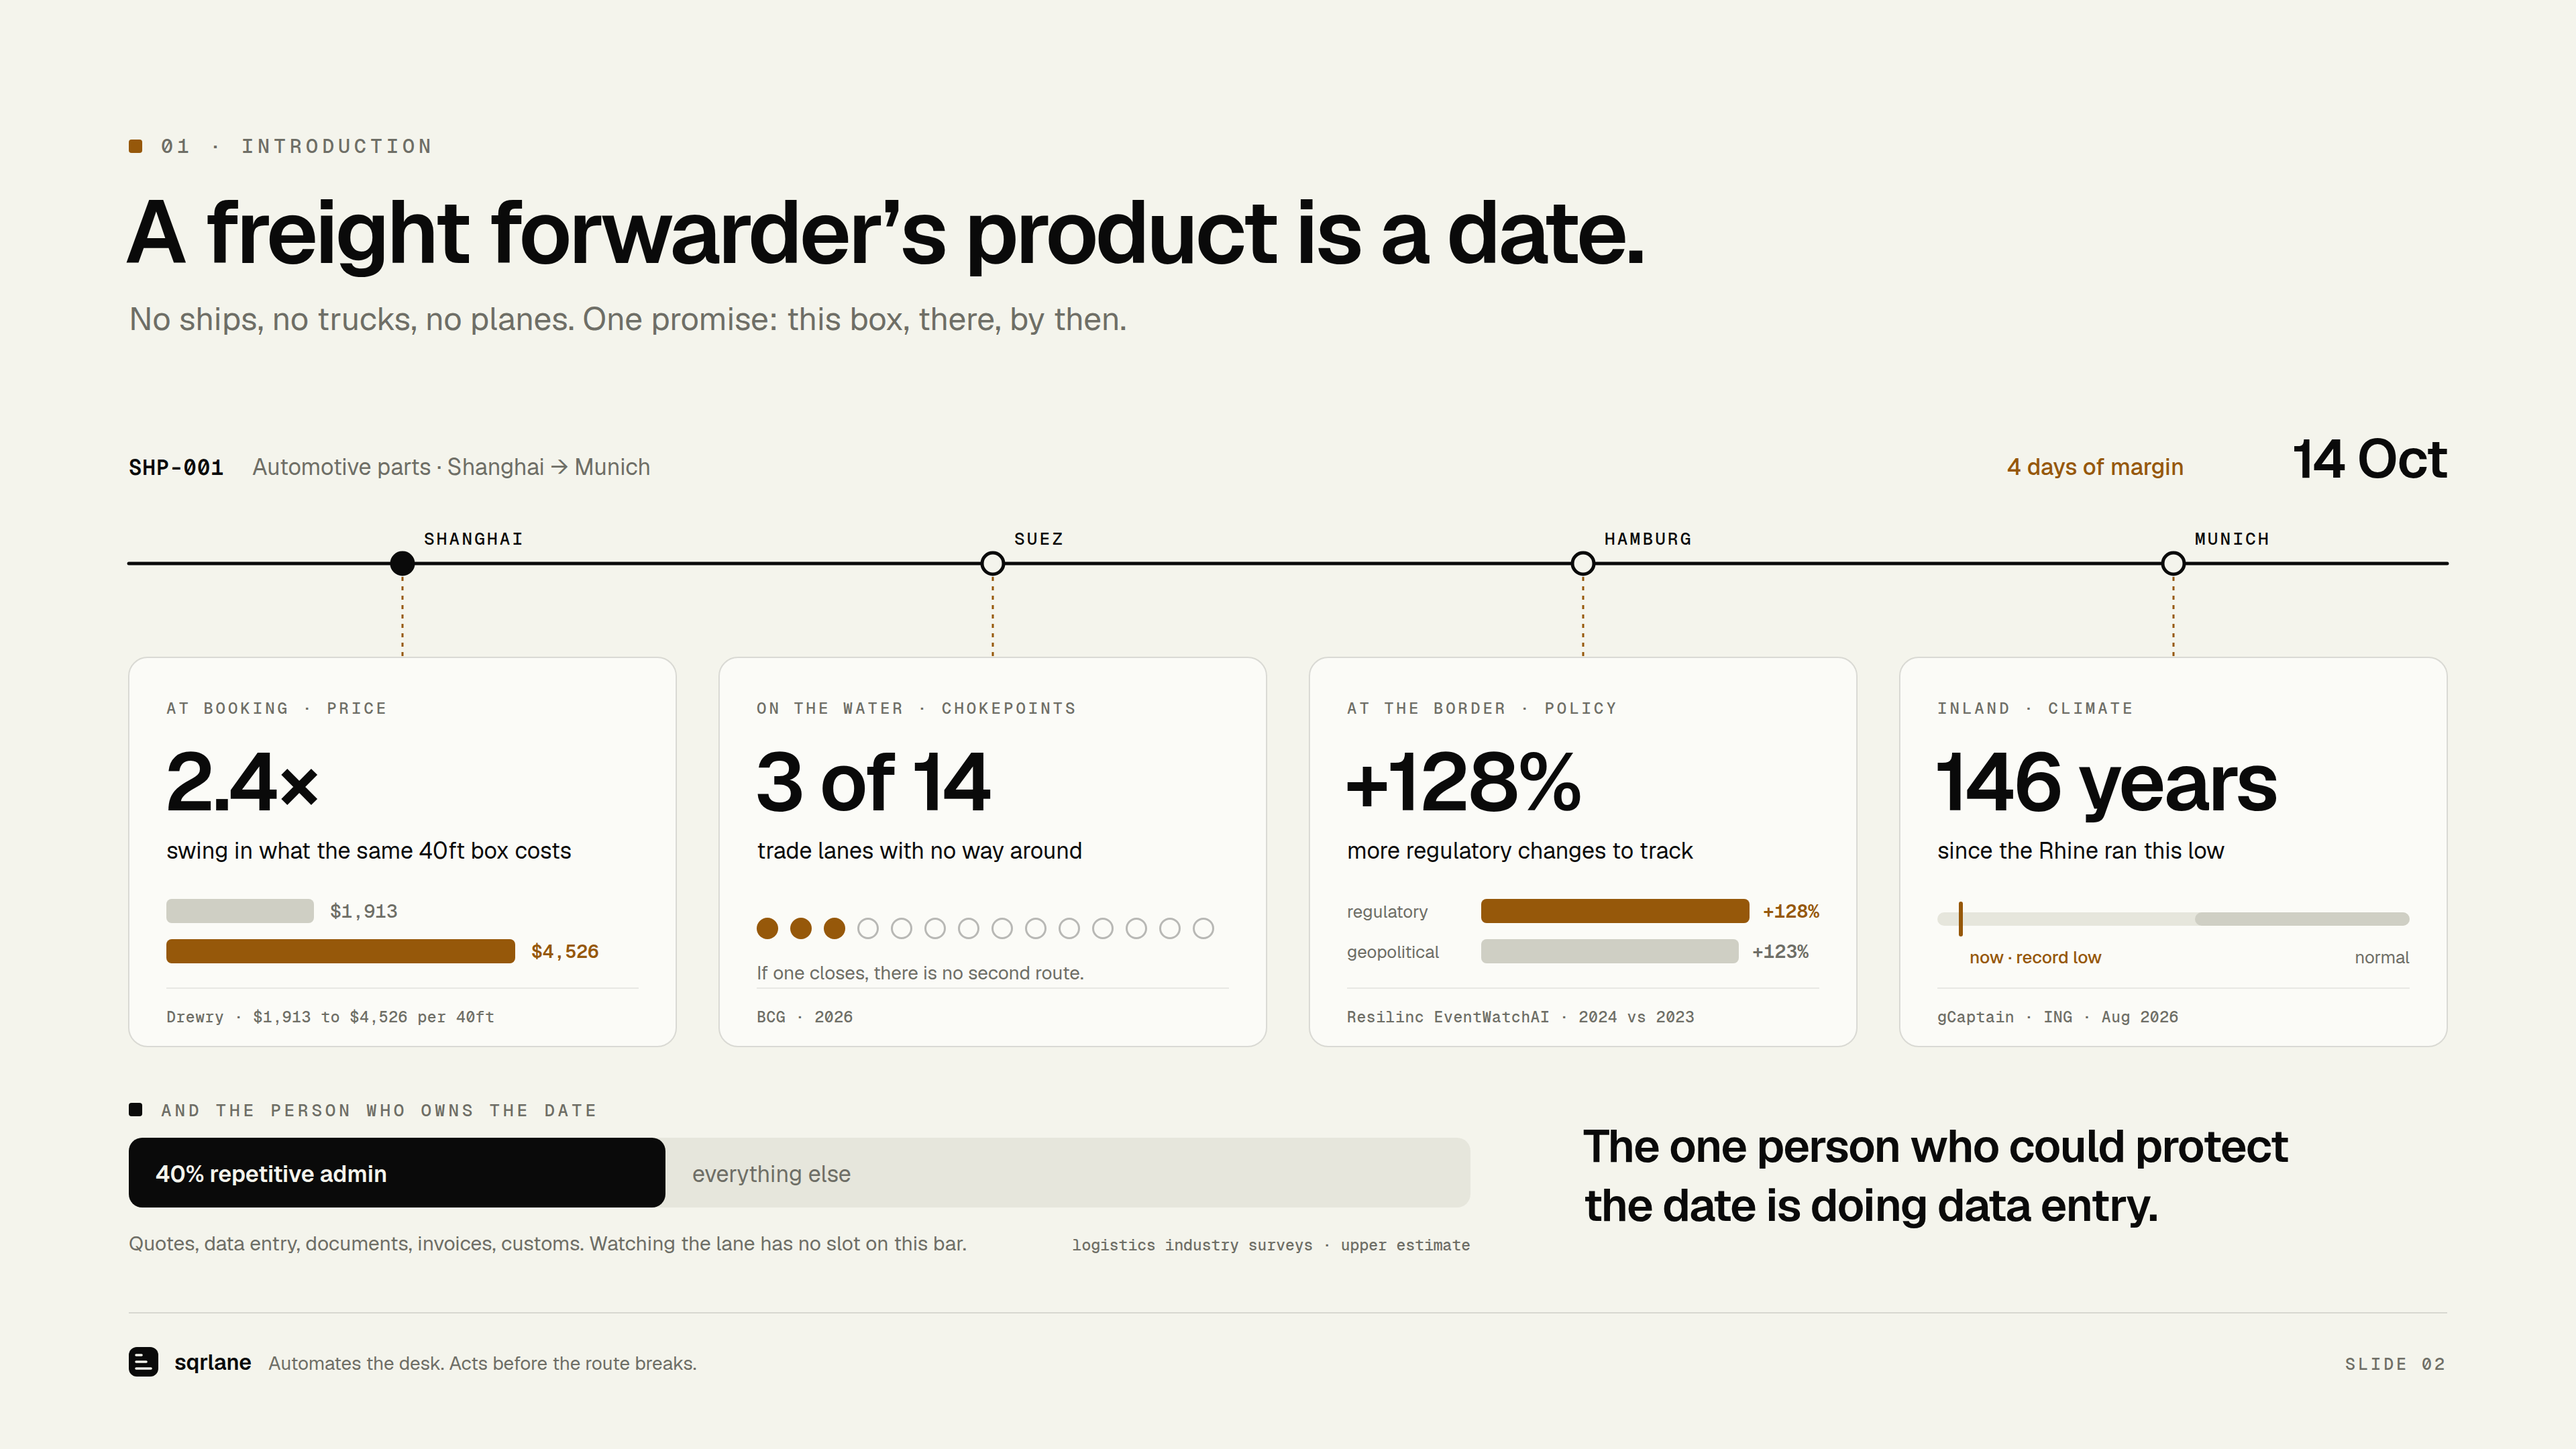
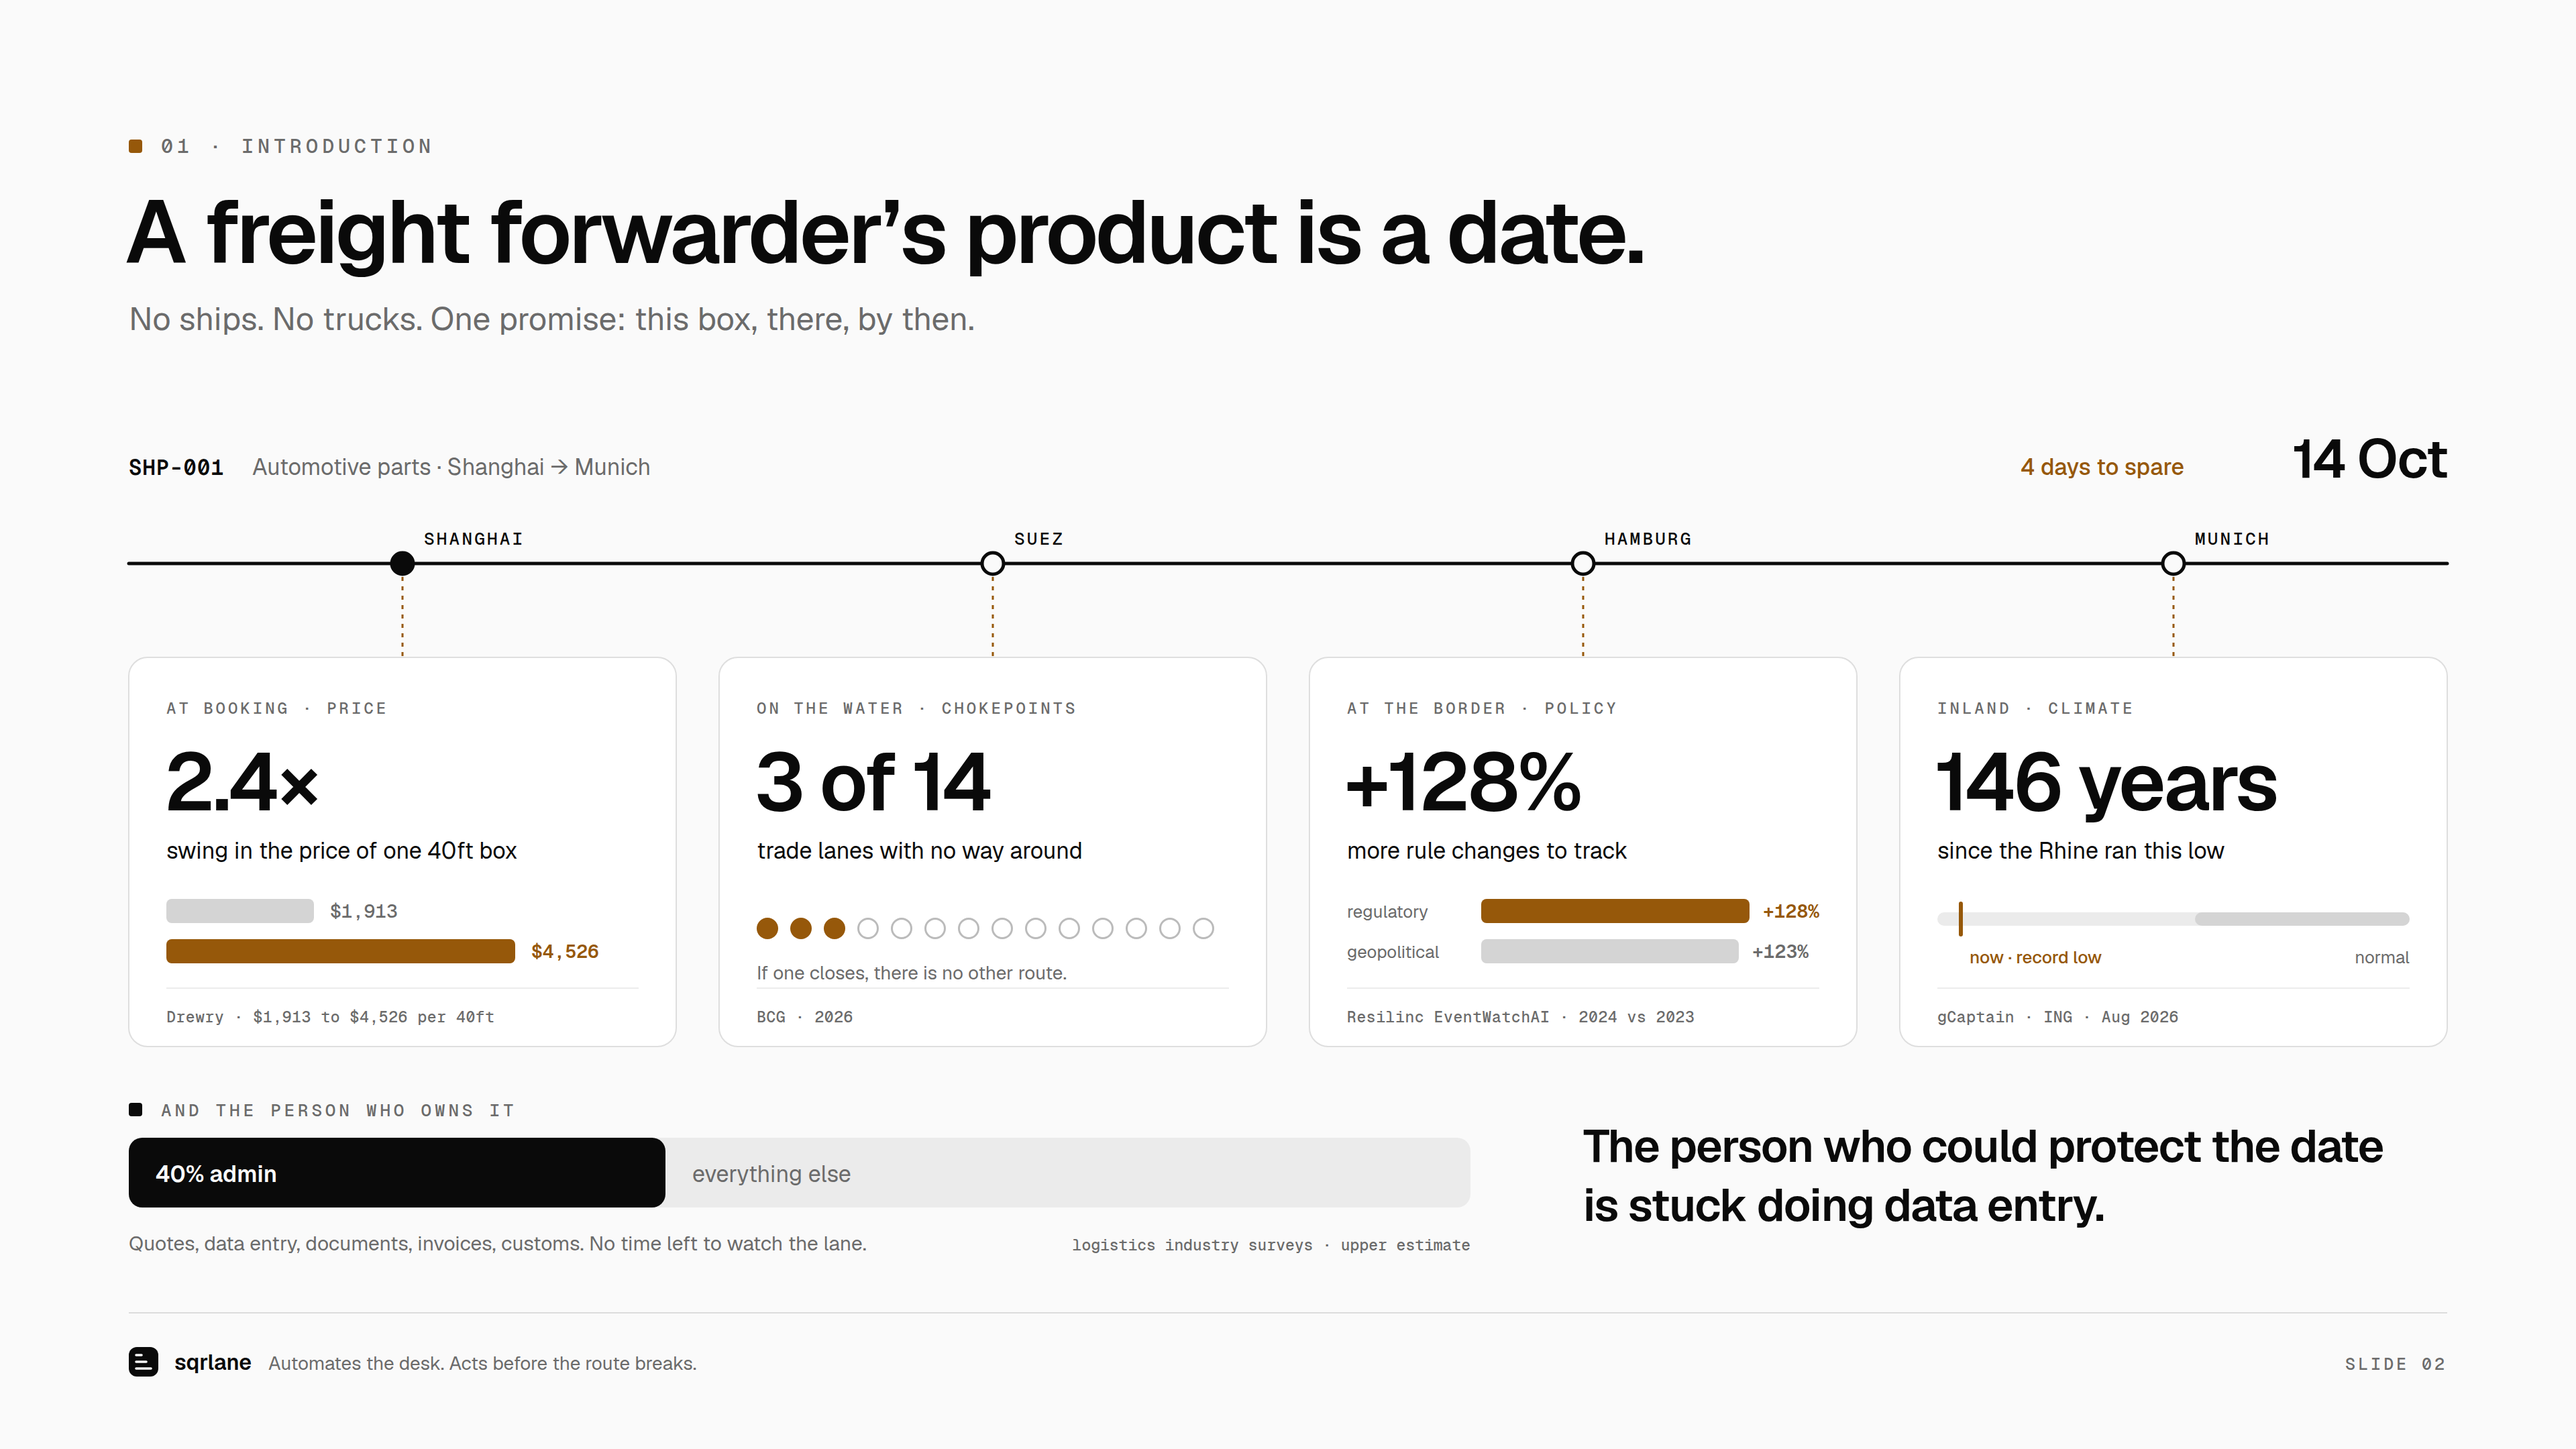
Deck v2 slide 02: neutral light background, simpler copy
Claude-Session: https://claude.ai/code/session_01HbtpjYfXPKy7DdRHDFrJUP

diff --git a/deck/v2/build_02.py b/deck/v2/build_02.py
@@ -2,7 +2,7 @@
 """Slide 02 - Introduction. Writes slide-02-introduction.svg (Figma-editable:
 inline attributes, no <style>, named groups, fonts by name only)."""
 import pathlib
-INK, MUT, AMB, BG, CARD = "#0A0A0A", "#6E6E66", "#96580A", "#F4F4EC", "#FBFBF7"
+INK, MUT, AMB, BG, CARD = "#0A0A0A", "#6B6B6B", "#96580A", "#FAFAFA", "#FFFFFF"
 SAGE = "#DBDBCD"
 M, W = 96, 1920
 out = []
@@ -25,7 +25,7 @@ G("header")
 R(M, 104, 10, 10, AMB, 2)
 T(M+24, 114, "01 · INTRODUCTION", 15, 500, MUT, ls=3, mono=True)
 T(M-3, 196, "A freight forwarder’s product is a date.", 66, 600, ls=-2)
-T(M, 246, "No ships, no trucks, no planes. One promise: this box, there, by then.", 24, 400, MUT)
+T(M, 246, "No ships. No trucks. One promise: this box, there, by then.", 24, 400, MUT)
 E()
 
 # the promise: one booking across the lane
@@ -34,7 +34,7 @@ LY = 420
 G("the-promise")
 T(M, 354, "SHP-001", 16, 600, mono=True, ls=0.6)
 T(M+92, 354, "Automotive parts · Shanghai → Munich", 17, 400, MUT)
-T(W-M-196, 354, "4 days of margin", 17, 500, AMB, anchor="end")
+T(W-M-196, 354, "4 days to spare", 17, 500, AMB, anchor="end")
 T(W-M, 356, "14 Oct", 40, 600, anchor="end", ls=-1)
 out.append(f'<path id="lane" d="M{M} {LY} H{W-M}" stroke="{INK}" stroke-width="2.5" stroke-linecap="round" fill="none"/>')
 for i, (x, name) in enumerate(zip(CX, ["SHANGHAI", "SUEZ", "HAMBURG", "MUNICH"])):
@@ -49,9 +49,9 @@ E()
 # four things that take the date, hung where they strike
 CW4, CY, CH = 408, 490, 290
 cards = [
-    ("AT BOOKING · PRICE", "2.4×", "swing in what the same 40ft box costs", "Drewry · $1,913 to $4,526 per 40ft"),
+    ("AT BOOKING · PRICE", "2.4×", "swing in the price of one 40ft box", "Drewry · $1,913 to $4,526 per 40ft"),
     ("ON THE WATER · CHOKEPOINTS", "3 of 14", "trade lanes with no way around", "BCG · 2026"),
-    ("AT THE BORDER · POLICY", "+128%", "more regulatory changes to track", "Resilinc EventWatchAI · 2024 vs 2023"),
+    ("AT THE BORDER · POLICY", "+128%", "more rule changes to track", "Resilinc EventWatchAI · 2024 vs 2023"),
     ("INLAND · CLIMATE", "146 years", "since the Rhine ran this low", "gCaptain · ING · Aug 2026"),
 ]
 ids = ["price", "chokepoints", "policy", "climate"]
@@ -64,7 +64,7 @@ for k, ((eb, big, desc, src), idn) in enumerate(zip(cards, ids)):
     T(x+28, CY+150, desc, 17, 400, INK)
     vy = CY+180
     if idn == "price":
-        for j, (lab, v, col) in enumerate([("$1,913", 1913, "#CFCFC4"), ("$4,526", 4526, AMB)]):
+        for j, (lab, v, col) in enumerate([("$1,913", 1913, "#D4D4D4"), ("$4,526", 4526, AMB)]):
             w = round(260*v/4526)
             R(x+28, vy+j*30, w, 18, col, 4)
             T(x+28+w+12, vy+j*30+14, lab, 14, 600 if j else 500, AMB if j else MUT, mono=True)
@@ -75,16 +75,16 @@ for k, ((eb, big, desc, src), idn) in enumerate(zip(cards, ids)):
                 out.append(f'<circle cx="{cx}" cy="{vy+22}" r="8" fill="{AMB}"/>')
             else:
                 out.append(f'<circle cx="{cx}" cy="{vy+22}" r="7.25" fill="none" stroke="{INK}" stroke-opacity="0.28" stroke-width="1.5"/>')
-        T(x+28, vy+60, "If one closes, there is no second route.", 14, 400, MUT)
+        T(x+28, vy+60, "If one closes, there is no other route.", 14, 400, MUT)
     if idn == "policy":
-        for j, (lab, v, col, tc) in enumerate([("regulatory", 128, AMB, AMB), ("geopolitical", 123, "#CFCFC4", MUT)]):
+        for j, (lab, v, col, tc) in enumerate([("regulatory", 128, AMB, AMB), ("geopolitical", 123, "#D4D4D4", MUT)]):
             T(x+28, vy+j*30+14, lab, 13, 400, MUT)
             w = round(200*v/128)
             R(x+128, vy+j*30, w, 18, col, 4)
             T(x+128+w+10, vy+j*30+14, f"+{v}%", 14, 600, tc, mono=True)
     if idn == "climate":
-        R(x+28, vy+10, 352, 10, "#E6E6DC", 5)
-        R(x+220, vy+10, 160, 10, "#CFCFC4", 5)
+        R(x+28, vy+10, 352, 10, "#EBEBEB", 5)
+        R(x+220, vy+10, 160, 10, "#D4D4D4", 5)
         R(x+44, vy+2, 3, 26, AMB, 1.5)
         T(x+52, vy+48, "now · record low", 13, 500, AMB)
         T(x+380, vy+48, "normal", 13, 400, MUT, anchor="end")
@@ -96,16 +96,16 @@ for k, ((eb, big, desc, src), idn) in enumerate(zip(cards, ids)):
 BY = 840
 G("the-desk")
 R(M, BY-18, 10, 10, INK, 2)
-T(M+24, BY-8, "AND THE PERSON WHO OWNS THE DATE", 13, 500, MUT, ls=2.4, mono=True)
+T(M+24, BY-8, "AND THE PERSON WHO OWNS IT", 13, 500, MUT, ls=2.4, mono=True)
 BW = 1000
-R(M, BY+8, BW, 52, "#E6E6DC", 10)
+R(M, BY+8, BW, 52, "#EBEBEB", 10)
 R(M, BY+8, round(BW*0.40), 52, INK, 10)
-T(M+20, BY+41, "40% repetitive admin", 17, 600, BG)
+T(M+20, BY+41, "40% admin", 17, 600, BG)
 T(M+round(BW*0.40)+20, BY+41, "everything else", 17, 400, MUT)
-T(M, BY+92, "Quotes, data entry, documents, invoices, customs. Watching the lane has no slot on this bar.", 15, 400, MUT)
+T(M, BY+92, "Quotes, data entry, documents, invoices, customs. No time left to watch the lane.", 15, 400, MUT)
 T(M+BW, BY+92, "logistics industry surveys · upper estimate", 11.5, 500, MUT, anchor="end", mono=True)
-T(1180, BY+26, "The one person who could protect", 34, 600, ls=-0.8)
-T(1180, BY+70, "the date is doing data entry.", 34, 600, ls=-0.8)
+T(1180, BY+26, "The person who could protect the date", 34, 600, ls=-0.8)
+T(1180, BY+70, "is stuck doing data entry.", 34, 600, ls=-0.8)
 E()
 
 G("footer")
